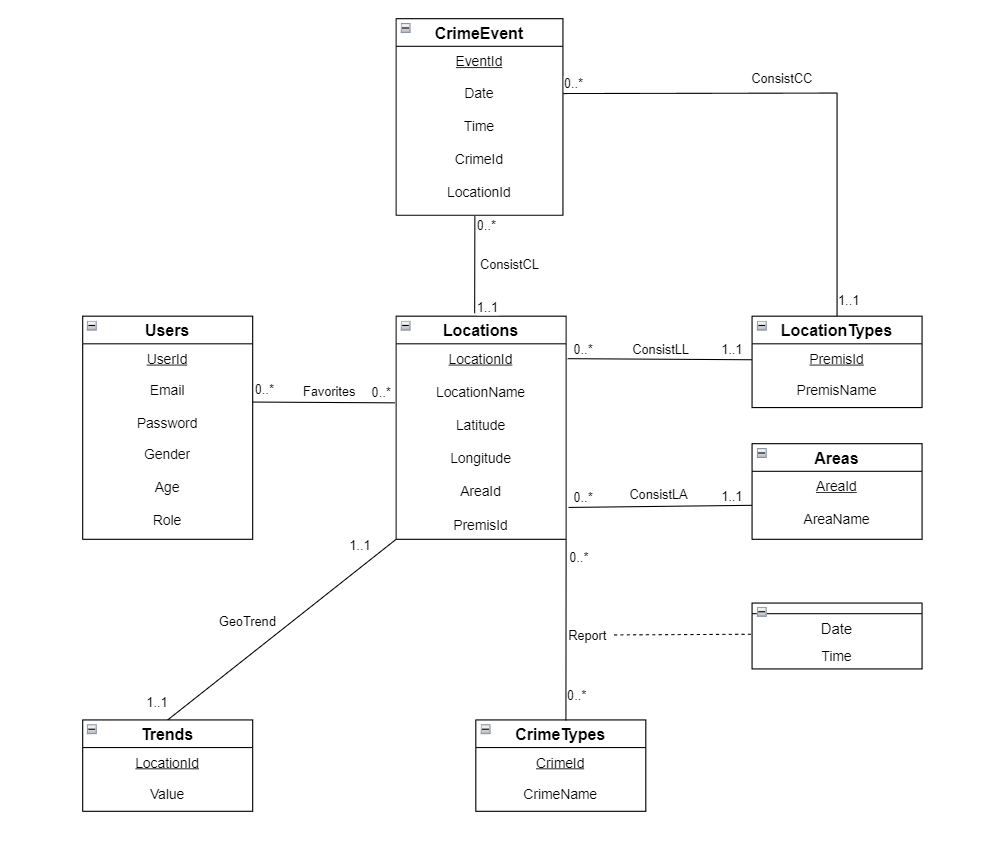
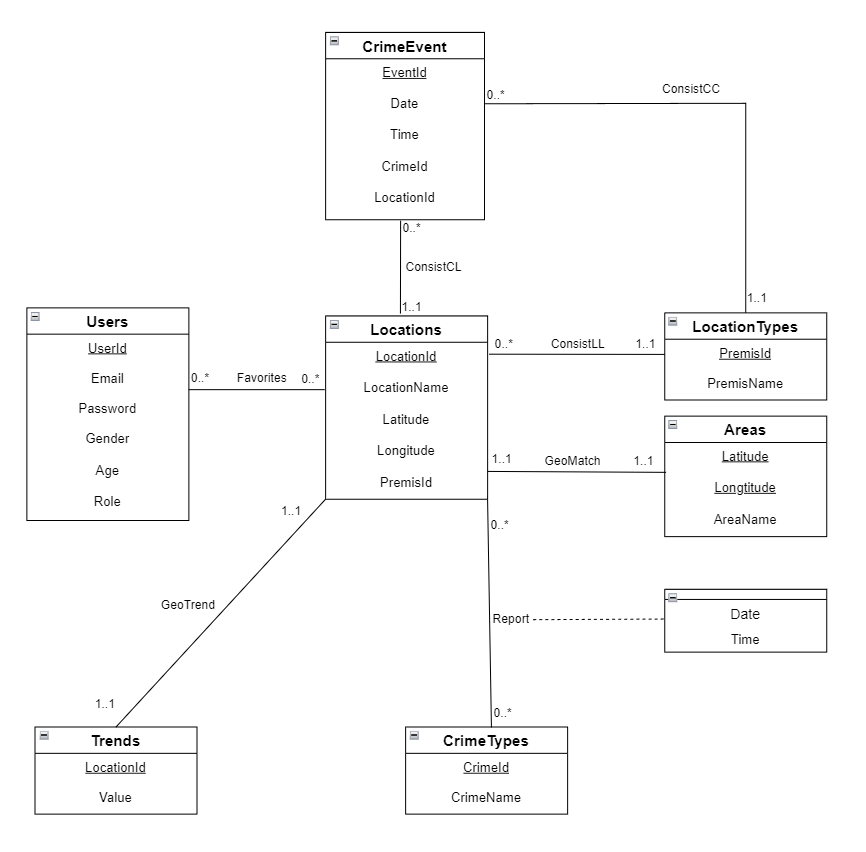
stage.2 update

diff --git a/doc/Database_Design.md b/doc/Database_Design.md
@@ -62,19 +62,22 @@ This entity stores all the locations of the area, with 6 attributes.
 - **LocationName**: a string sttribute to identify the name of location.
 - **Latitude**: a floating-point attribute representing the latitude of location.
 - **Longitude**: a floating-point attribute representing the longitude of location.
-- **AreaId:** an integer attribute, **foreign key** to `Areas`.
 - **PremisId:** an integer attribute, **foreign key** to `LocationType`.
 
 The entity is designed with the following assumptions:
 
 1. The same location has the same longitude and latitude, we won't refine its precision and latitude for the same location again. Both are just used to better determine where the location is on the map.
-2. For a location type and specific location need to use the key of `Areas` and `LocationTypes` as a foreign key for identification. One location can only correspond to one Locationtype and one Area.
+2. For a location type we need to use the key of  `LocationTypes` as a foreign key for identification. One location can only correspond to one Locationtype.
 
 ### 5. Areas
 
 This entity stores all information about different areas, including the area code and area name, with 2 attributes.
 
-- **AreaId**: a unique identifier of the area in each location. It will be **primary key** and will be of an integer attribute.
+- **Latitude**: a floating-point attribute representing the latitude of location.
+- **Longitude**: a floating-point attribute representing the longitude of location.
+    
+    Latitude and Longitude together serves as a **primary key**.
+    
 - **AreaName**: a string attribute to identify the name of the area. Such as `Southwest` or `Central`.
 
 > Because a geographic location can cover a large area, when the need to pass through a geographic location is unavoidable, delineating specific `Areas` can help avoid crime-prone locations and can improve security.
@@ -130,17 +133,17 @@ This relation will be a **many-to-many** relation as a specific crime can happ
 
 This is a relation between different location types for given locations. This is a **many-to-one** relation as each location can only have one location type but each location type can be at multiple locations. The `ConsistLL` relation has no attributes. And since this is a many-to-one relation, we will not create a separate table for it. We will simply add `PremisId`, the primary key of `LocationTypes`, to `Locations` and add foreign key constraints.
 
-### 4. ConsistLA (Locations and Areas)
-
-This is a relation between different locations for given areas. This is a **many-to-one** relation as each location can only have one area type but each area can have multiple locations. The `ConsistLA` relation has no attributes. And since this is a many-to-one relation, we will not create a separate table for it. We will simply add `AreaId`, the primary key of `Areas`, to `Locations` and add foreign key constraints.
-
-### 5. ConsistCL (CrimeEvents and Locations)
+### 4. ConsistCL (CrimeEvents and Locations)
 
 This is a relation between different crime events for given locations. This is a **many-to-one** relation as each crime event can only happen at one location but each location can have multiple crime events. The `ConsistCL` relation has no attributes. And since this is a many-to-one relation, we will not create a separate table for it. We will simply add `LocationId`, the primary key of `Locations`, to `CrimeEvents` and add foreign key constraints.
 
-### 6. ConsistCC (CrimeEvents and CrimeTypes)
+### 5. ConsistCC (CrimeEvents and CrimeTypes)
 
 This is a relation between different crime events for given crime types. This is a **many-to-one** relation as each crime event can only have one crime type but each crime type can have multiple events. The `ConsistCC` relation has no attributes. And since this is a many-to-one relation, we will not create a separate table for it. We will simply add `CrimeId`, the primary key of `CrimeTypes`, to `CrimeEvents` and add foreign key constraints.
+
+### 6. GeoMatch (Locations and Areas)
+
+This is a relation between `Locations` and `Areas`. This is a **one-to-one** relation as each location will have one area and each area(with its latitude and longitude) will have its corresponding location. It has no additional attributes.
 
 ### 7. GeoTrend (Locations and Trends)
 
@@ -163,8 +166,8 @@ Users(
 )
 ```
 
-- **`UserId`** is the primary key.
-- All attributes are directly dependent on **`UserId`**.
+- `UserId` is the primary key.
+- All attributes are directly dependent on `UserId`.
 - No non-prime attribute determines another non-prime attribute. Thus, no transitive dependencies.
 
 ### 2. CrimeEvents
@@ -179,8 +182,8 @@ CrimeEvents(
 )
 ```
 
-- **`EventId`** is the primary key.
-- All attributes are directly dependent on **`EventId`**.
+- `EventId` is the primary key.
+- All attributes are directly dependent on `EventId`.
 - No transitive dependencies.
 
 ### 3. CrimeTypes
@@ -192,8 +195,8 @@ CrimeTypes(
 )
 ```
 
-- **`CrimeId`** is the primary key.
-- **`CrimeName`** is directly dependent on **`CrimeId`**.
+- `CrimeId` is the primary key.
+- `CrimeName` is directly dependent on `CrimeId`.
 - No transitive dependencies observed.
 
 ### 4. Locations
@@ -204,26 +207,28 @@ Locations(
 	LocationName VARCHAR(255),
 	Latitude DOUBLE,
 	Longitude DOUBLE,
-	AreaId INT [FK to Areas.AreaId],
+	Longitude [FK to Areas.Longitude]
+	Latitude [FK to Areas.Latitude]
 	PremisId INT [FK to LocationType.PremisId]
 )
 ```
 
-- **`LocationId`** is the primary key.
-- All attributes are directly dependent on **`LocationId`**.
+- `LocationId` is the primary key.
+- All attributes are directly dependent on `LocationId`.
 - No transitive dependencies observed.
 
 ### 5. Areas
 
 ```scheme
 Areas(
-	AreaId INT [PK],
+	Latitude [Composite PK],
+	Longitude [Composite PK],
 	AreaName VARCHAR(255)
 )
 ```
 
-- **`AreaId`** is the primary key.
-- **`AreaName`** is directly dependent on **`AreaId`**.
+- `(Longtitude, Latitude)` is the primary key.
+- `AreaName` is directly dependent on `(Longtitude, Latitude)`.
 - No transitive dependencies observed.
 
 ### 6. LocationTypes
@@ -235,8 +240,8 @@ LocationTypes(
 )
 ```
 
-- **`PremisId`** is the primary key.
-- **`PremisName`** is directly dependent on **`PremisId`**.
+- `PremisId` is the primary key.
+- `PremisName` is directly dependent on `PremisId`.
 - No transitive dependencies.
 
 ### 7. Trends
@@ -248,8 +253,8 @@ Trends(
 )
 ```
 
-- **`LocationId`** is the primary key.
-- **`Value`** is directly dependent on **`LocationId`**.
+- `LocationId` is the primary key.
+- `Value` is directly dependent on `LocationId`.
 - No transitive dependencies observed.
 
 ### 8. Favorites
@@ -261,7 +266,7 @@ Favorites(
 )
 ```
 
-- (**`UserId`**, **`LocationId`**) is the composite primary key.
+- (`UserId`, `LocationId`) is the composite primary key.
 - No other attributes. Thus, no transitive dependencies.
 
 ### 9. Report
@@ -275,8 +280,8 @@ Report(
 )
 ```
 
-- (**`LocationId`**, **`CrimeId`**) is the composite primary key.
-- **`Date`** and **`Time`** are directly dependent on the composite key.
+- (`LocationId`, `CrimeId`) is the composite primary key.
+- `Date` and `Time` are directly dependent on the composite key.
 - No transitive dependencies.
 
 <aside>
@@ -305,8 +310,10 @@ CREATE TABLE CrimeTypes (
 
 -- AREAS TABLE
 CREATE TABLE Areas (
-    AreaId INT PRIMARY KEY,
-    AreaName VARCHAR(255)
+		Longitude VARCHAR(255),
+    Latitude VARCHAR(255),
+    AreaName VARCHAR(255),
+    PRIMARY KEY (Longitude, Latitude)
 );
 
 -- LOCATION TYPES TABLE
@@ -319,9 +326,8 @@ CREATE TABLE LocationTypes (
 CREATE TABLE Locations (
     LocationId INTEGER PRIMARY KEY,
     LocationName VARCHAR(255),
-    Latitude VARCHAR(255),
-    Longitude VARCHAR(255),
-    AreaId INT REFERENCES Areas(AreaId),
+    Latitude VARCHAR(255) REFERENCES Areas(Latitude),
+    Longitude VARCHAR(255) REFERENCES Areas(Longitude),
     PremisId INT REFERENCES LocationTypes(PremisId)
 );
 
